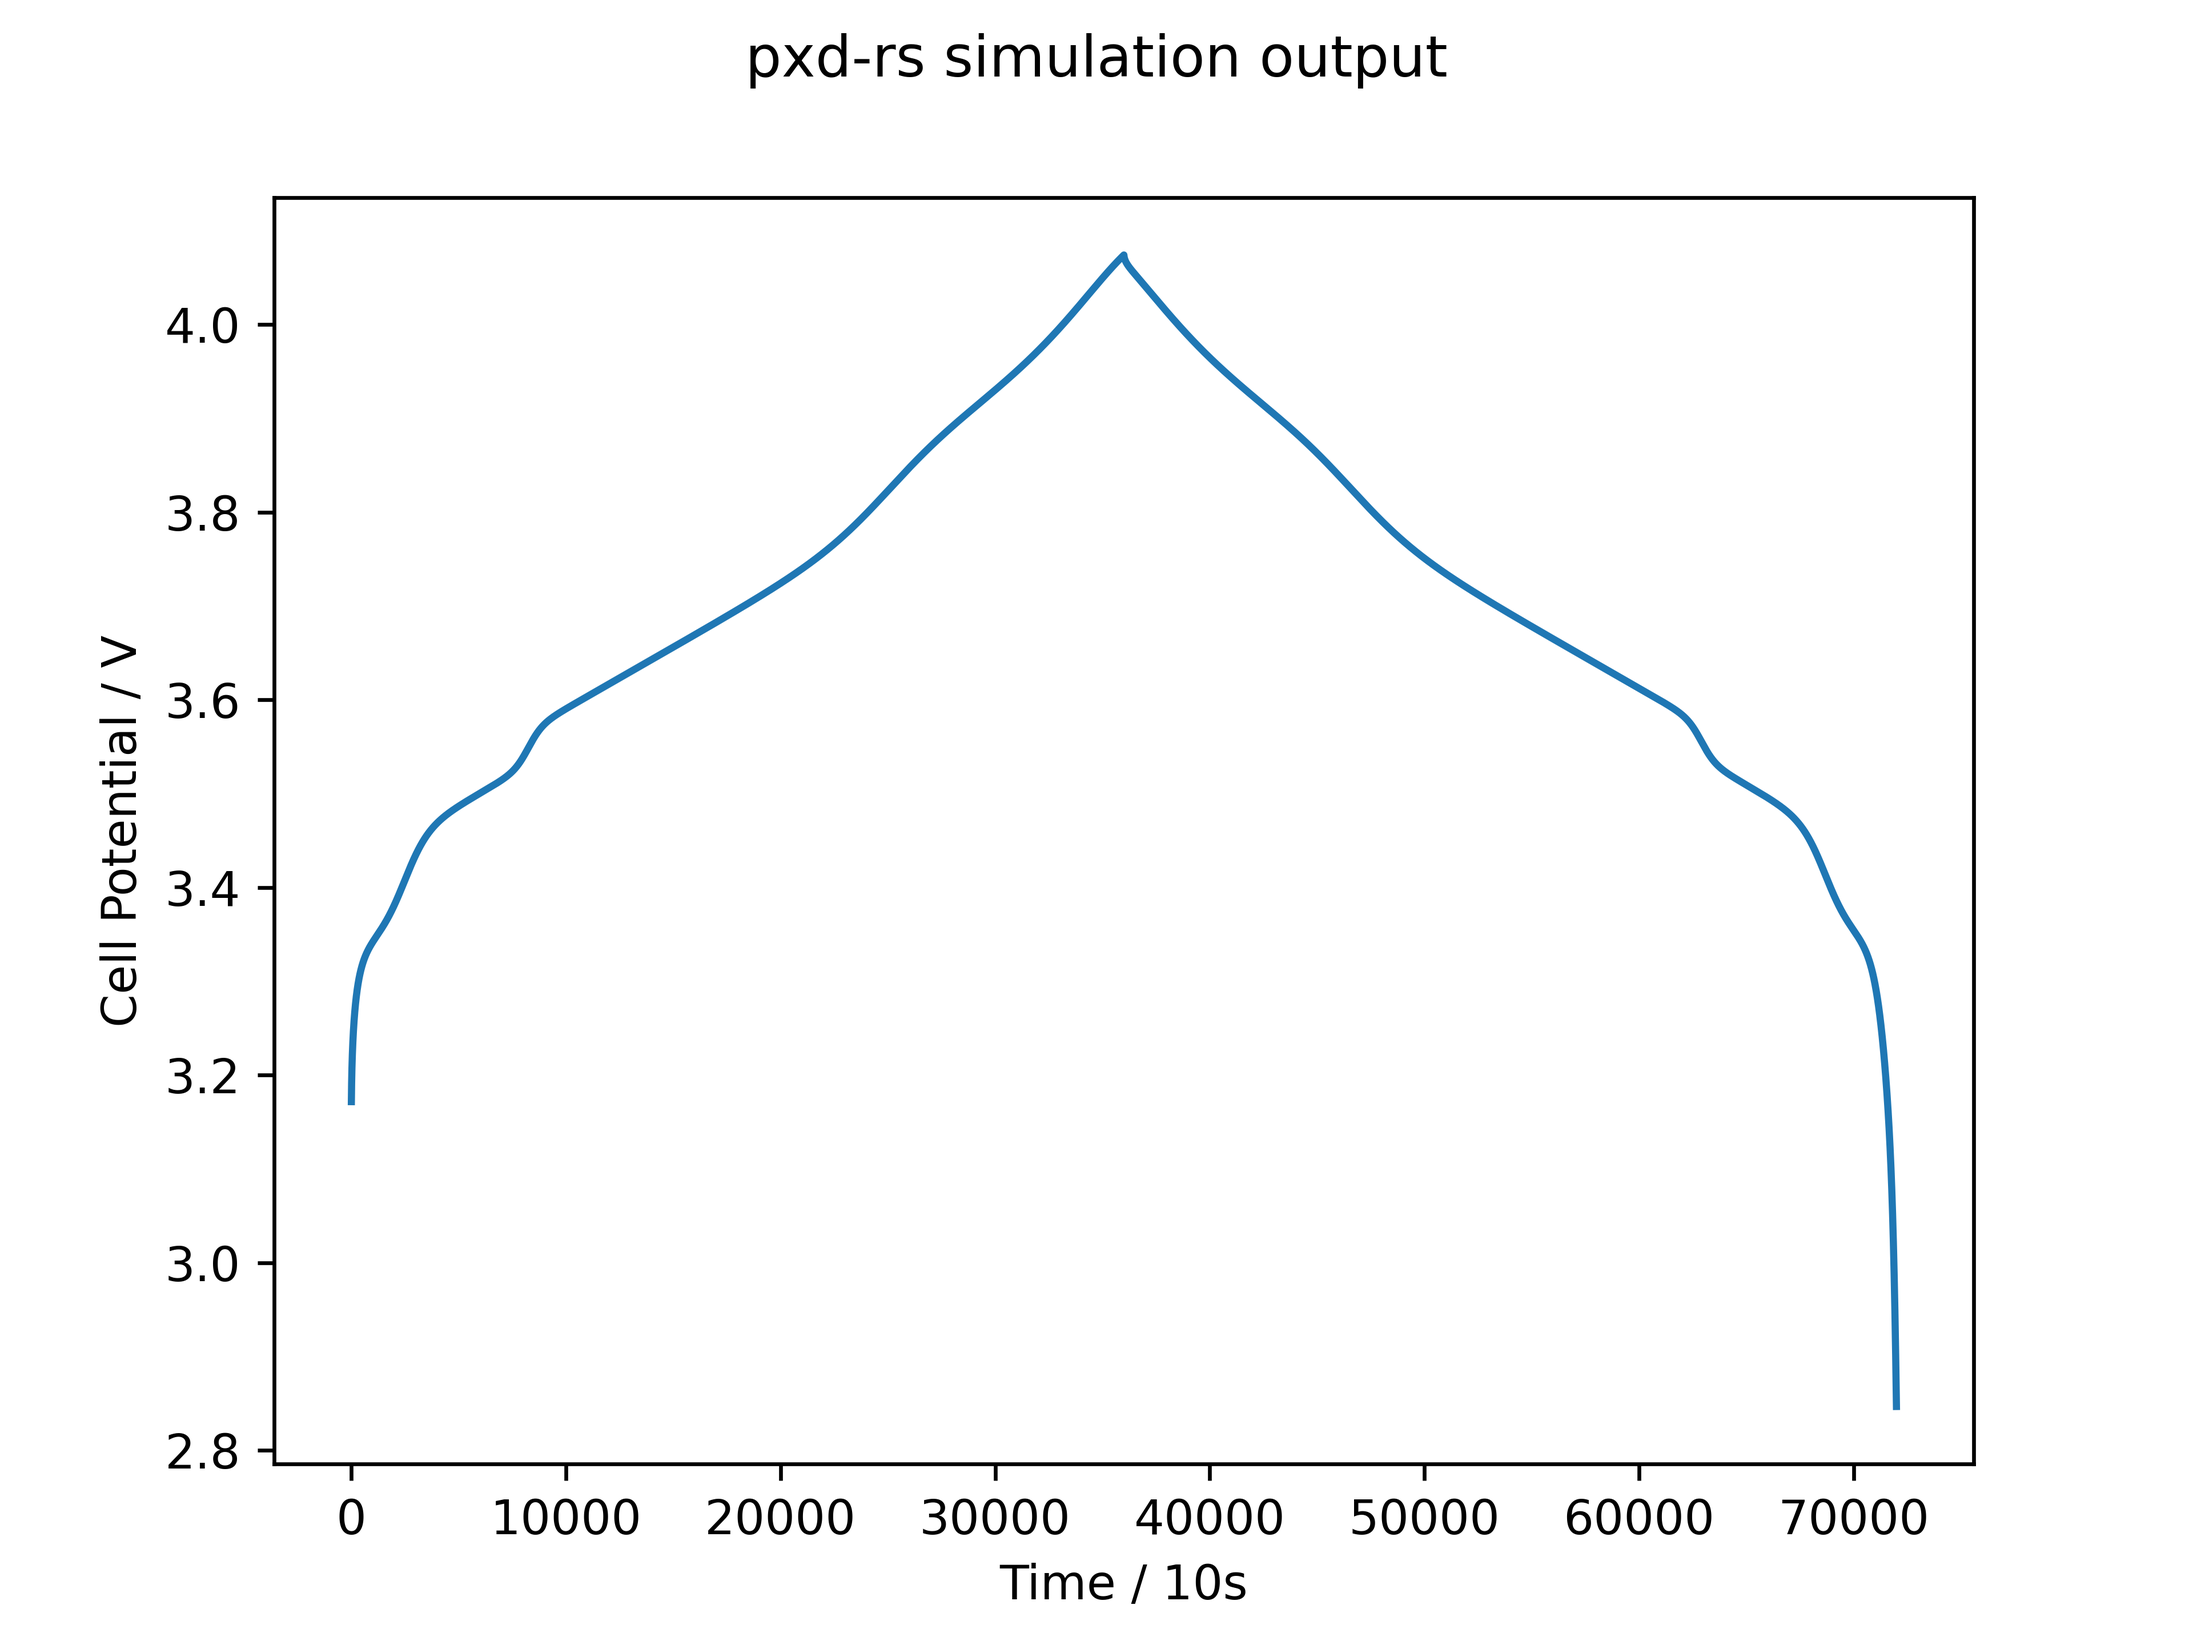
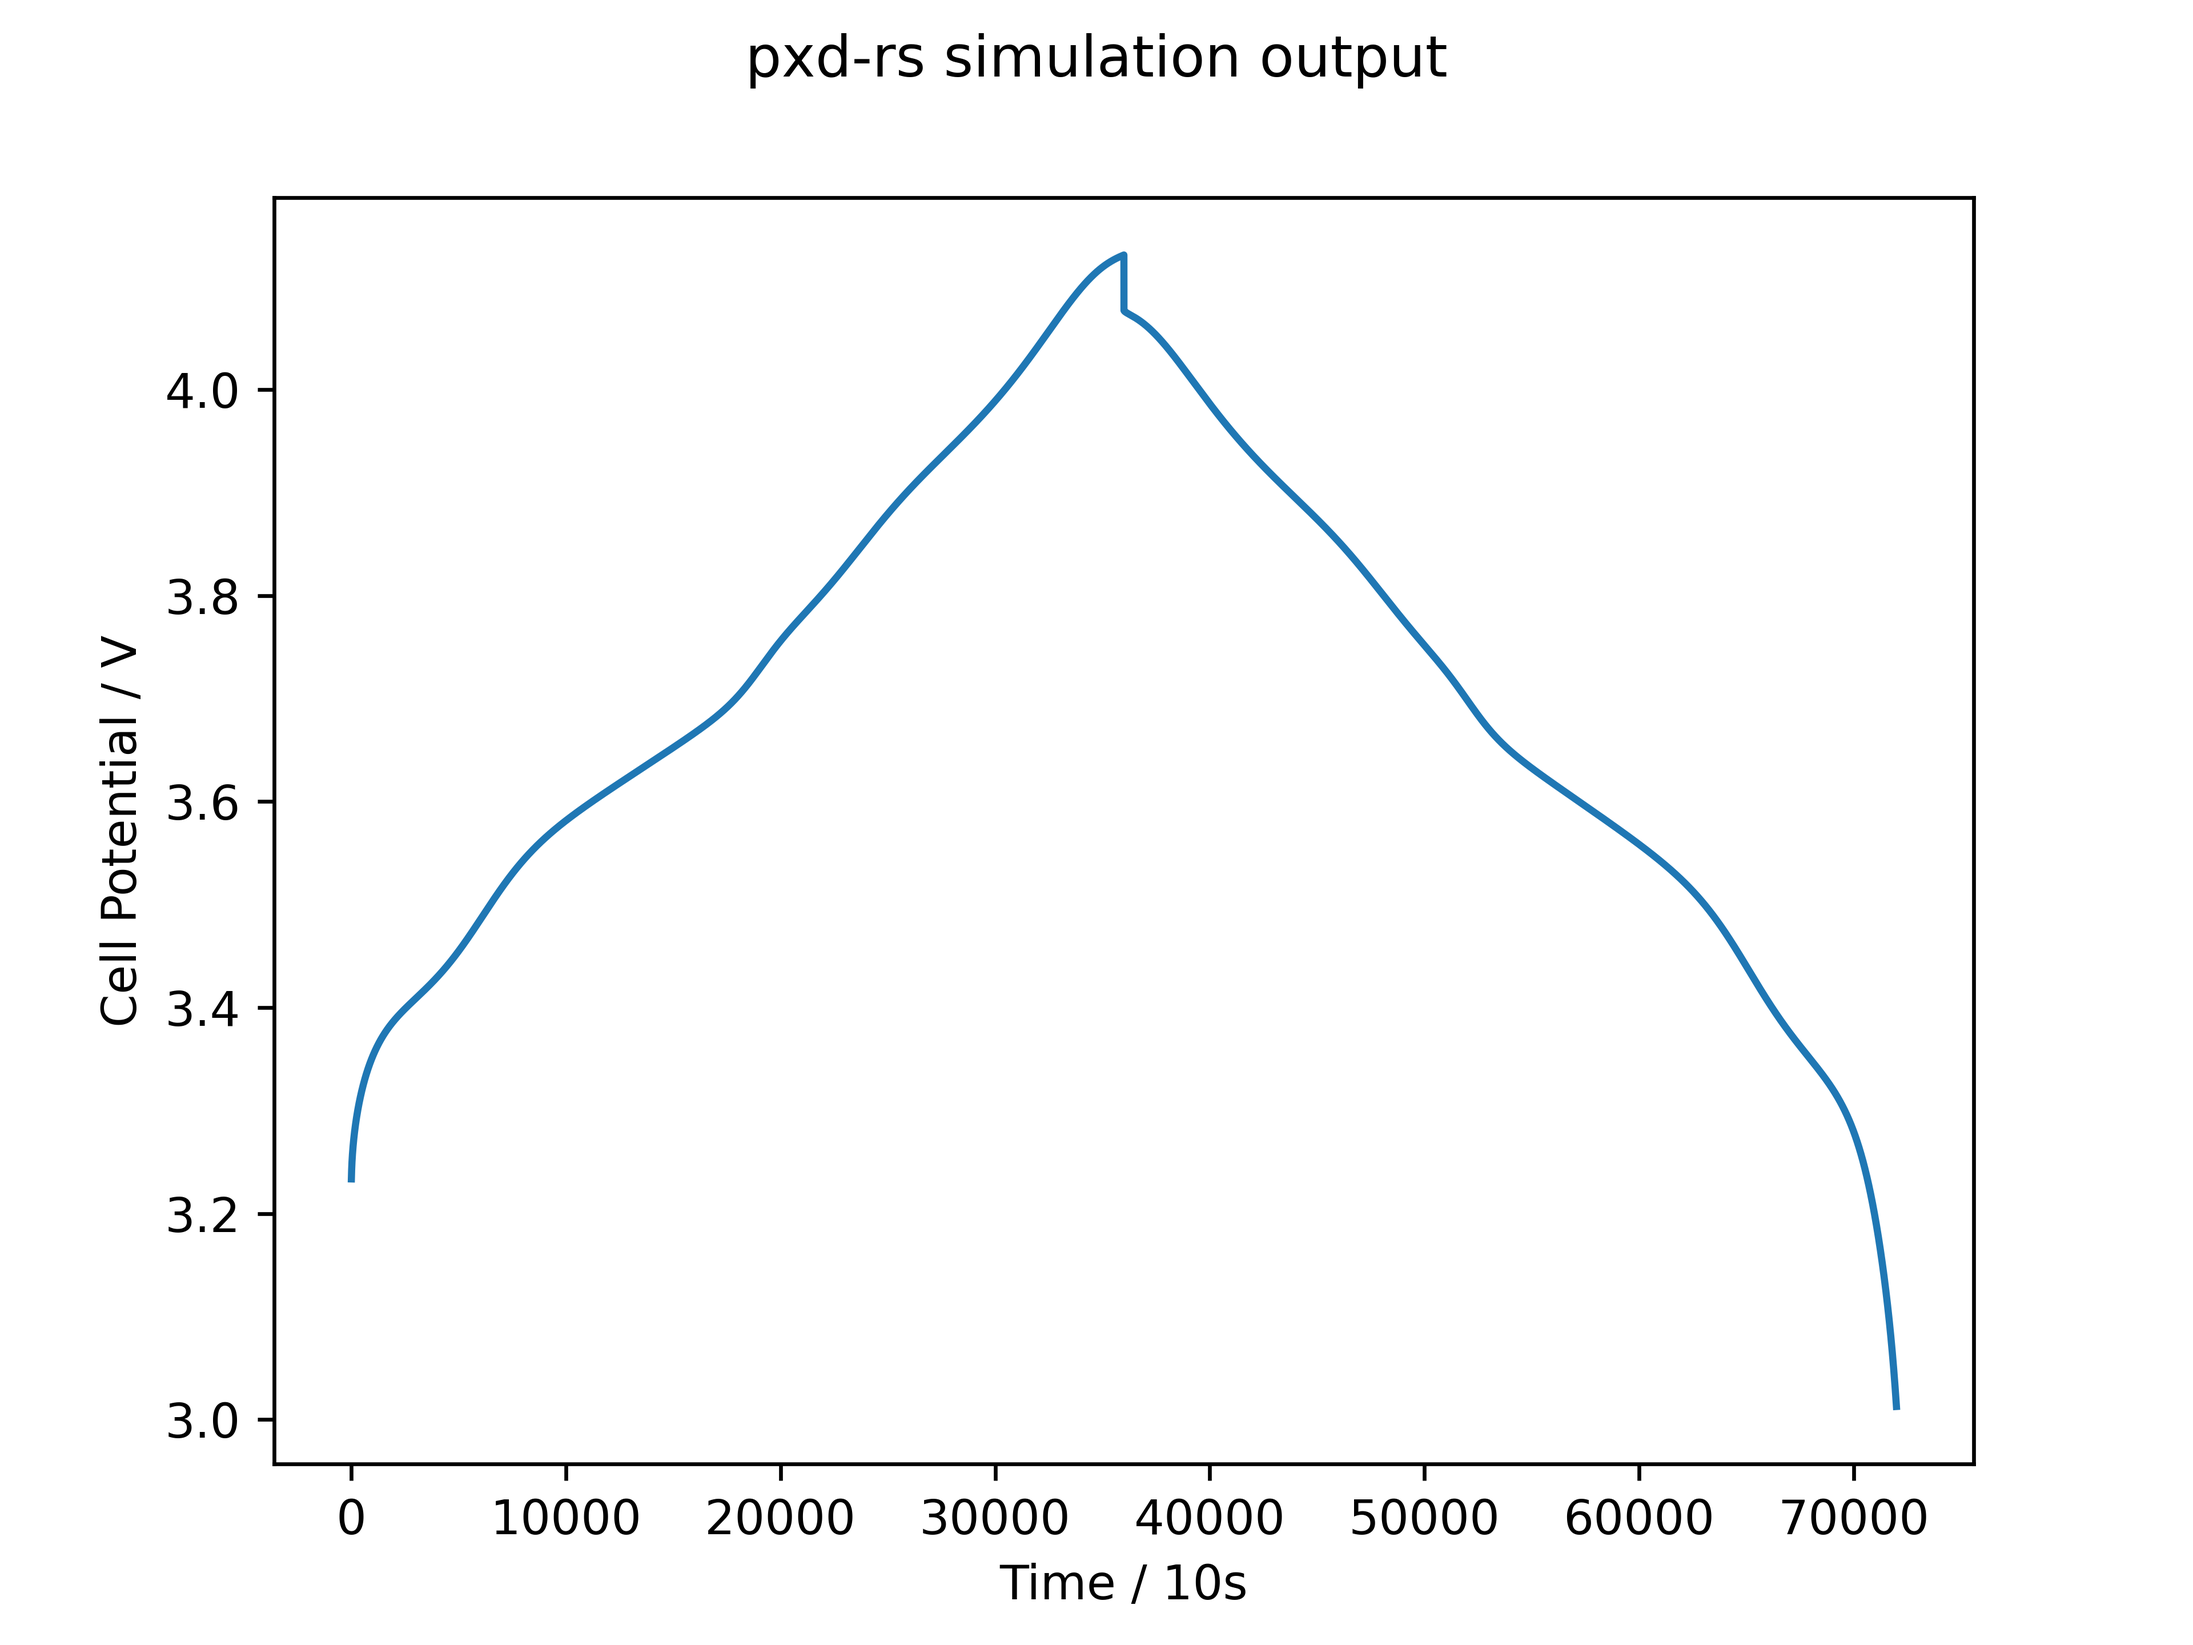
implemented Butler-Volmer kinetics

diff --git a/src/model.rs b/src/model.rs
@@ -1,6 +1,7 @@
 use crate::math::numerical_methods::{
     forward_time_centered_space_linear, forward_time_centered_space_radial, ftcs_stable,
 };
+use crate::math::utils::{arcsinh};
 use crate::ocv;
 use crate::Simulate;
 
@@ -9,6 +10,7 @@ use std::f64::consts::PI;
 pub const PARTICLE_DISCRETISATION: usize = 20;
 const ELECTROLYTE_DISCRETISATION: usize = 20;
 const FARADAY: f64 = 96485.3321233100184; // C/mol (=As/mol), 2019 SI revision definition
+const GAS_CONSTANT: f64 = 8.31446261815324; // J/(mol*K), 2019 SI revision definition
 const STANDARD_TEMPERATURE: f64 = 298.15; // Kelvin
 
 #[derive(Debug, Clone, Copy)]
@@ -135,19 +137,50 @@ impl SPMeModel {
         );
     }
 
-    fn cell_potential(&self) -> f64 {
+
+    fn butler_volmer_overpotential(&self, current_density: f64, electrode: &Electrode) -> f64 {
+        // Butler volmer overpotential, eta
+        // TODO: make B-V function parameters tunable
+        let alpha: f64 = 0.5; // charge transfer coefficient
+        let reaction_rate_constant: f64 = 1e-3; // reaction rate constant
+        let c_e: f64 = 1000.0; // electrolyte concentration mol/m^3, TODO: change this to real value
+        let exchange_current_density: f64 = 
+            reaction_rate_constant 
+            * c_e.powf(alpha) 
+            * electrode.particle.concentration[PARTICLE_DISCRETISATION - 1].powf(alpha)
+            * (1.0 - ( electrode.particle.concentration[PARTICLE_DISCRETISATION - 1] / electrode.particle.concentration_max ) ).powf(alpha);
+
+        // Symmetric butler volmer, only valid for alpha = 0.5
+        let butler_volmer: f64 = ( 2.0 * GAS_CONSTANT * STANDARD_TEMPERATURE / FARADAY )
+            * arcsinh(
+                current_density / ( 2.0* exchange_current_density * self.specific_interfacial_surface_area(electrode) * electrode.thickness )
+            );
+        - butler_volmer // negative sign since we define positive current as charge.
+    }
+
+    fn cell_potential(&self, current: f64) -> f64 {
+        let cell_area: f64 = self.negative_electrode.height * self.negative_electrode.width;
+        let current_density: f64 = current / cell_area; // A/m^2
         ocv::open_circuit_voltage_nmc811(&self.positive_electrode.particle)
             - ocv::open_circuit_voltage_graphite_si(&self.negative_electrode.particle)
+            - self.butler_volmer_overpotential(current_density, &self.negative_electrode)
+            - self.butler_volmer_overpotential(current_density, &self.positive_electrode)
     }
+
+    fn specific_interfacial_surface_area(&self, electrode: &Electrode) -> f64 {
+        // The specific interfacial surface area is the surface area per unit volume, and it's use
+        // assumes a uniform distribution of monodisperse spherical particles.
+        // $a = 3 \cdot \frac{\epsilon}{r}$
+        let a: f64 = 3.0 * electrode.active_material_volume_fraction / electrode.particle.radius;
+        a
+    }
+
     fn particle_surface_flux(&self, current: f64, electrode: &Electrode) -> f64 {
         // The calculation of flux at the particle surface is the current density (cell current divided by electrode area) 
         // divided by Faraday's constant, $F$, (conversion of current to moles), the 
         // specific interfacial surface area, $a$, and the thickness of the electrode, $L$.
-        // 
-        // The specific interfacial surface area is the surface area per unit volume, and it's use
-        // assumes a uniform distribution of monodisperse spherical particles.
         let current_density: f64 = current / (electrode.height * electrode.width); // A/m^2
-        let a: f64 = 3.0 * electrode.active_material_volume_fraction / electrode.particle.radius; // Replace 0.7 for active material volume fraction, epsilon
+        let a: f64 = self.specific_interfacial_surface_area(electrode);
         let flux: f64 = current_density / ( FARADAY * a * electrode.thickness ); // mol/(s*m^2)
         flux
     }
@@ -212,7 +245,7 @@ impl Simulate for SPMeModel {
             );
 
             // Calculate cell potential
-            cell_potential[i] = self.cell_potential();
+            cell_potential[i] = self.cell_potential(current[i]);
         }
         cell_potential
     }

diff --git a/src/math.rs b/src/math.rs
@@ -92,3 +92,11 @@ pub mod numerical_methods {
         // r is the surface so need to do n*dr here
     }
 }
+
+pub mod utils {
+    pub fn arcsinh(x: f64) -> f64 {
+        // Returns the inverse hyperbolic sine of x
+        // arcsinh(x) = ln(x + sqrt(x^2 + 1))
+        (x + (x * x + 1.0).sqrt()).ln()
+    }
+}

diff --git a/README.md b/README.md
@@ -8,10 +8,11 @@ Numerical method is central difference and forward Euler.
 - [x] Empirical open circuit voltage functions
 - [ ] Fickian diffusion in electrolyte
 - [x] Fickian diffusion in particles
-- [ ] Butler-Volmer kinetics
+- [x] Butler-Volmer kinetics
 - [ ] Migration in electrolyte
 - [x] Active material volume fraction
 - [ ] Bruggeman correction
+- [ ] Double layer capacitance
 
 
 ![Current Status](current_status.png)
